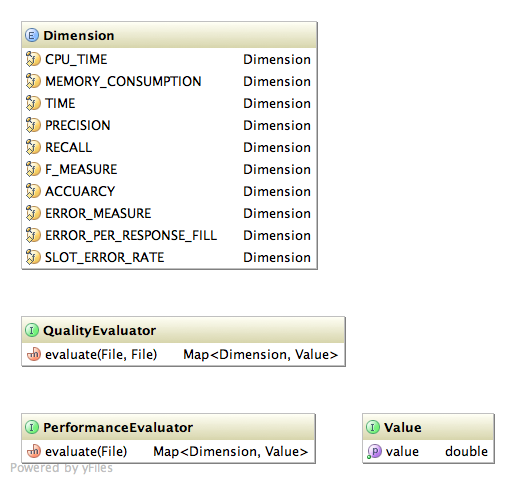
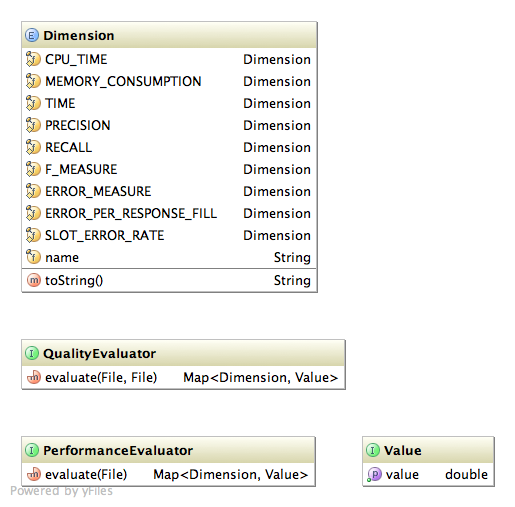
removed accuracy draft

diff --git a/banshie-eval-quality/src/main/java/org/whiskeysierra/banshie/evaluation/score/ScoreModule.java b/banshie-eval-quality/src/main/java/org/whiskeysierra/banshie/evaluation/score/ScoreModule.java
@@ -14,7 +14,6 @@ public final class ScoreModule extends AbstractModule {
         binder.addBinding(Dimension.ERROR_MEASURE).to(ErrorMeasure.class);
         binder.addBinding(Dimension.ERROR_PER_RESPONSE_FILL).to(ErrorPerResponseFill.class);
         binder.addBinding(Dimension.F_MEASURE).to(FMeasure.class);
-        binder.addBinding(Dimension.ACCUARCY).to(Accuracy.class);
         binder.addBinding(Dimension.PRECISION).to(Precision.class);
         binder.addBinding(Dimension.RECALL).to(Recall.class);
         binder.addBinding(Dimension.SLOT_ERROR_RATE).to(SlotErrorRate.class);

diff --git a/banshie-api/src/main/java/org/whiskeysierra/banshie/evaluation/Dimension.java b/banshie-api/src/main/java/org/whiskeysierra/banshie/evaluation/Dimension.java
@@ -11,7 +11,6 @@ public enum Dimension {
     PRECISION("Precision"),
     RECALL("Recall"),
     F_MEASURE("F-measure"),
-    ACCUARCY("Accuracy"),
 
     // error measures
     ERROR_MEASURE("Error measure"),
